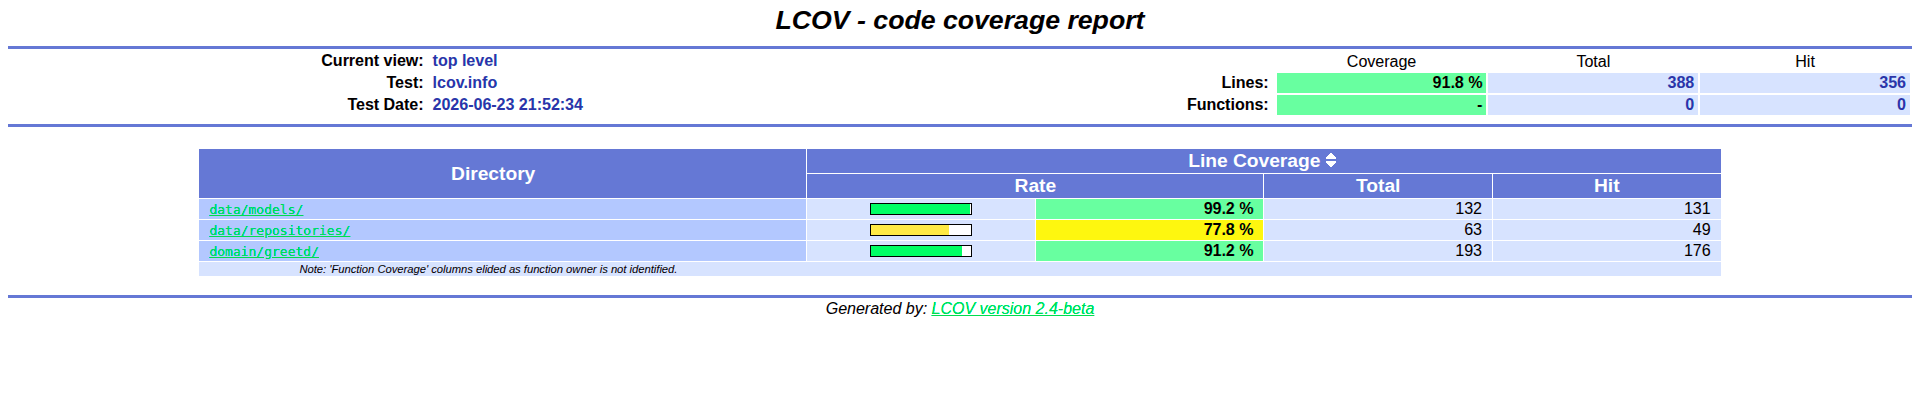
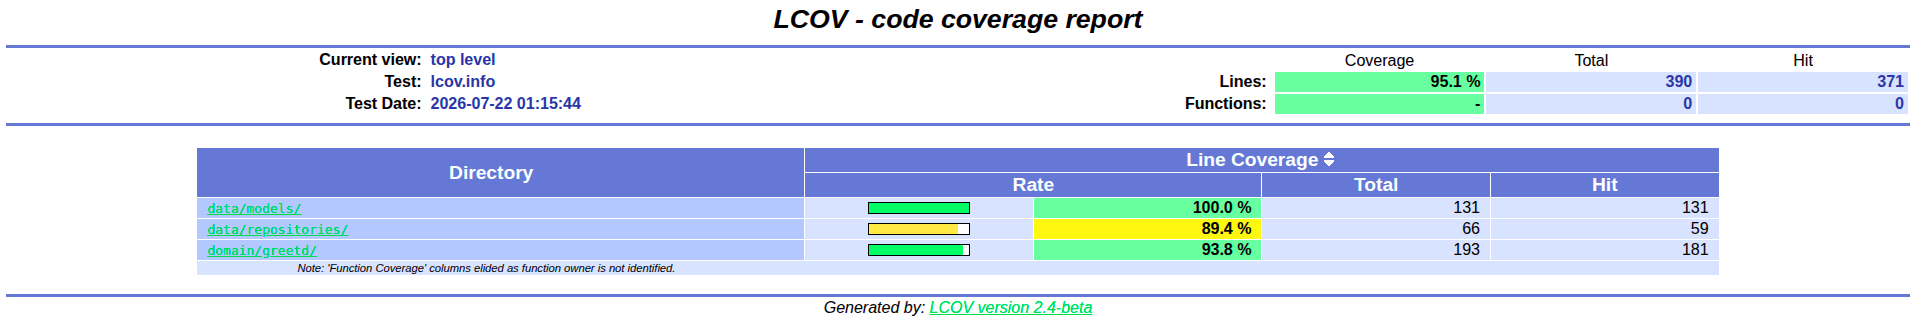
Improve tests

diff --git a/test/data/repositories/greetd_repository_test.dart b/test/data/repositories/greetd_repository_test.dart
@@ -186,6 +186,32 @@ void main() {
               ),
             ),
           );
+          expect(
+            () => repository.connect(),
+            throwsA(
+              isA<Exception>().having(
+                (e) => e.toString(),
+                'message',
+                contains('GREETD_SOCK not set'),
+              ),
+            ),
+          );
+        },
+      );
+
+      test(
+        'connect throws Exception if GREETD_SOCK path does not exist',
+        () async {
+          expect(
+            () => repository.connect(environment: {'GREETD_SOCK': 'test_path'}),
+            throwsA(
+              isA<Exception>().having(
+                (e) => e.toString(),
+                'message',
+                contains('Socket file does not exist'),
+              ),
+            ),
+          );
         },
       );
 
@@ -194,6 +220,23 @@ void main() {
         await repository.connect(environment: {'GREETD_SOCK': socketPath});
         expect(repository.connected, isTrue);
       });
+
+      test(
+        'sendRequest throws Exception if socket is not connected',
+        () async {
+          expect(
+            () =>
+                repository.sendRequest(const CreateSessionRequest('test_user')),
+            throwsA(
+              isA<Exception>().having(
+                (e) => e.toString(),
+                'message',
+                contains('Socket not connected'),
+              ),
+            ),
+          );
+        },
+      );
 
       test('sendRequest sends serialized bytes with length header', () async {
         await repository.connect(environment: {'GREETD_SOCK': socketPath});

diff --git a/test/domain/greetd/greetd_bloc_test.dart b/test/domain/greetd/greetd_bloc_test.dart
@@ -204,6 +204,29 @@ void main() {
     );
 
     blocTest<GreetdBloc, GreetdState>(
+      'emits [loading, error] when sendRequest throws',
+      setUp: () {
+        when(
+          () => repository.sendRequest(any()),
+        ).thenThrow(Exception('oops'));
+      },
+      build: () => GreetdBloc(repository: repository),
+      act: (bloc) async {
+        await bloc.stream.firstWhere((s) => s.status == GreetdStatus.connected);
+        bloc.add(const StartSession(cmd: ['ls'], env: ['PATH=/bin']));
+      },
+      skip: 2,
+      expect: () => const [
+        GreetdState(status: GreetdStatus.loading, username: ''),
+        GreetdState(
+          status: GreetdStatus.error,
+          username: '',
+          error: 'Exception: oops',
+        ),
+      ],
+    );
+
+    blocTest<GreetdBloc, GreetdState>(
       'CancelSession sends CancelSessionRequest and resets state to initial',
       build: () => GreetdBloc(repository: repository),
       act: (bloc) async {

diff --git a/lib/src/data/repositories/greetd_repository.dart b/lib/src/data/repositories/greetd_repository.dart
@@ -31,17 +31,24 @@ class GreetdRepository {
       throw Exception('GREETD_SOCK not set');
     }
 
+    if (!File(socketPath).existsSync()) {
+      throw Exception('Socket file does not exist');
+    }
+
     const timeout = Duration(seconds: 3);
 
     final host = InternetAddress(socketPath, type: InternetAddressType.unix);
     _socket = await RawSocket.connect(host, defaultPort, timeout: timeout);
 
-    _connected = true;
+    _connected = _socket != null;
 
     _listenForResponses();
   }
 
   void _listenForResponses() {
+    if (!connected) {
+      return;
+    }
     _streamListener = _socket!.listen(
       (event) async {
         if (event == RawSocketEvent.read) {
@@ -102,7 +109,7 @@ class GreetdRepository {
   }
 
   Future<void> sendRequest(GreetdRequest request) async {
-    if (_socket == null) {
+    if (!connected) {
       await _clientAbort('Socket not connected');
     }
 

diff --git a/test/domain/greetd/greetd_state_test.dart b/test/domain/greetd/greetd_state_test.dart
@@ -24,6 +24,19 @@ void main() {
     group('copyWith', () {
       test('supports value comparisons', () {
         expect(
+          GreetdState.initial().copyWith(username: 'username'),
+          GreetdState.initial().copyWith(
+            status: GreetdStatus.initial,
+            username: 'username',
+          ),
+        );
+
+        expect(
+          GreetdState.initial().copyWith(),
+          GreetdState.initial(),
+        );
+
+        expect(
           GreetdState.initial().copyWith(
             status: GreetdStatus.success,
             username: 'username',

diff --git a/lib/src/data/models/greetd_response.dart b/lib/src/data/models/greetd_response.dart
@@ -45,5 +45,5 @@ abstract class GreetdResponse extends Equatable {
 
   Map<String, dynamic> toJson();
 
-  String get type => throw UnimplementedError();
+  String get type;
 }
